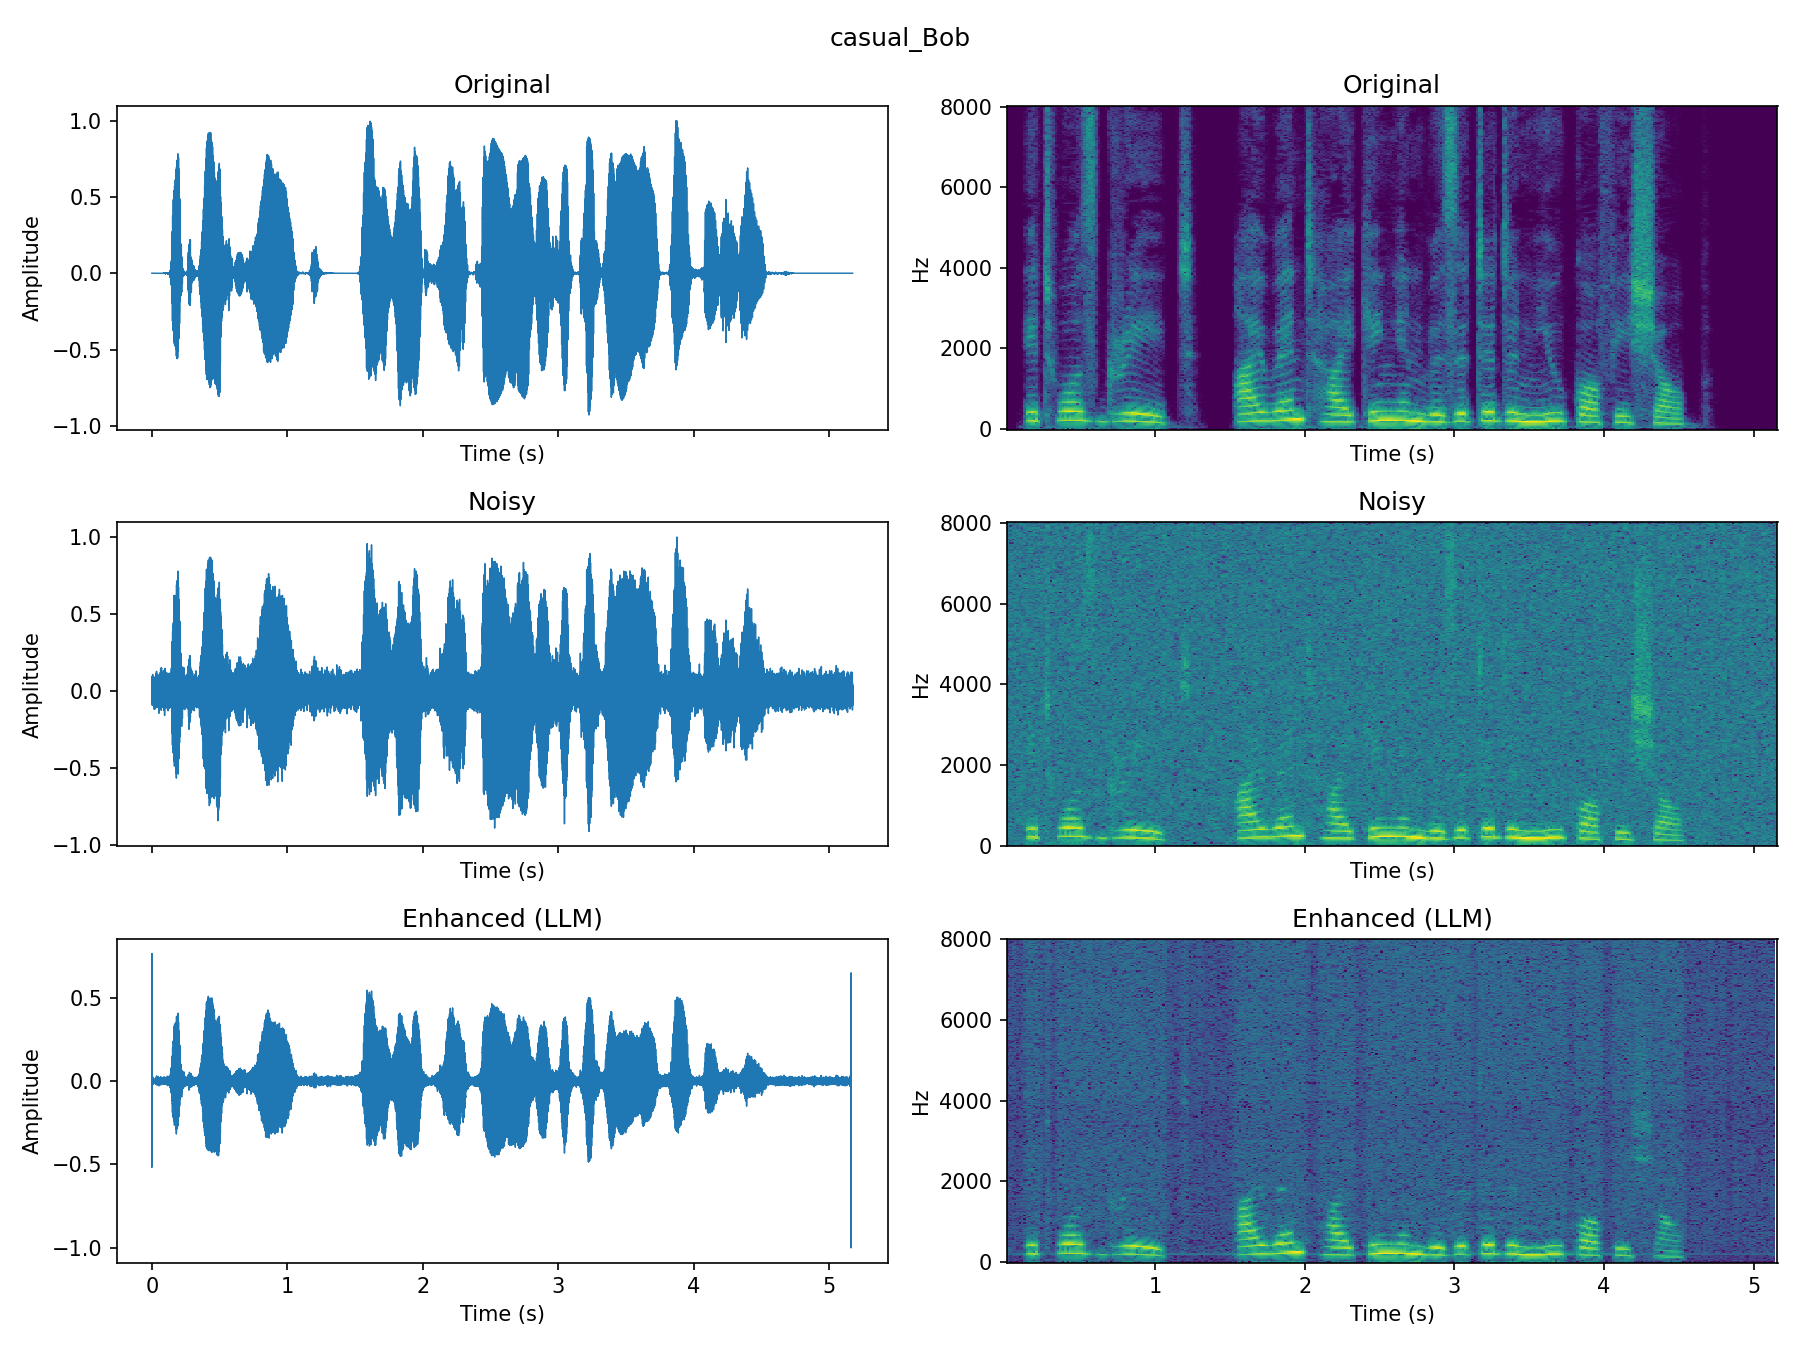
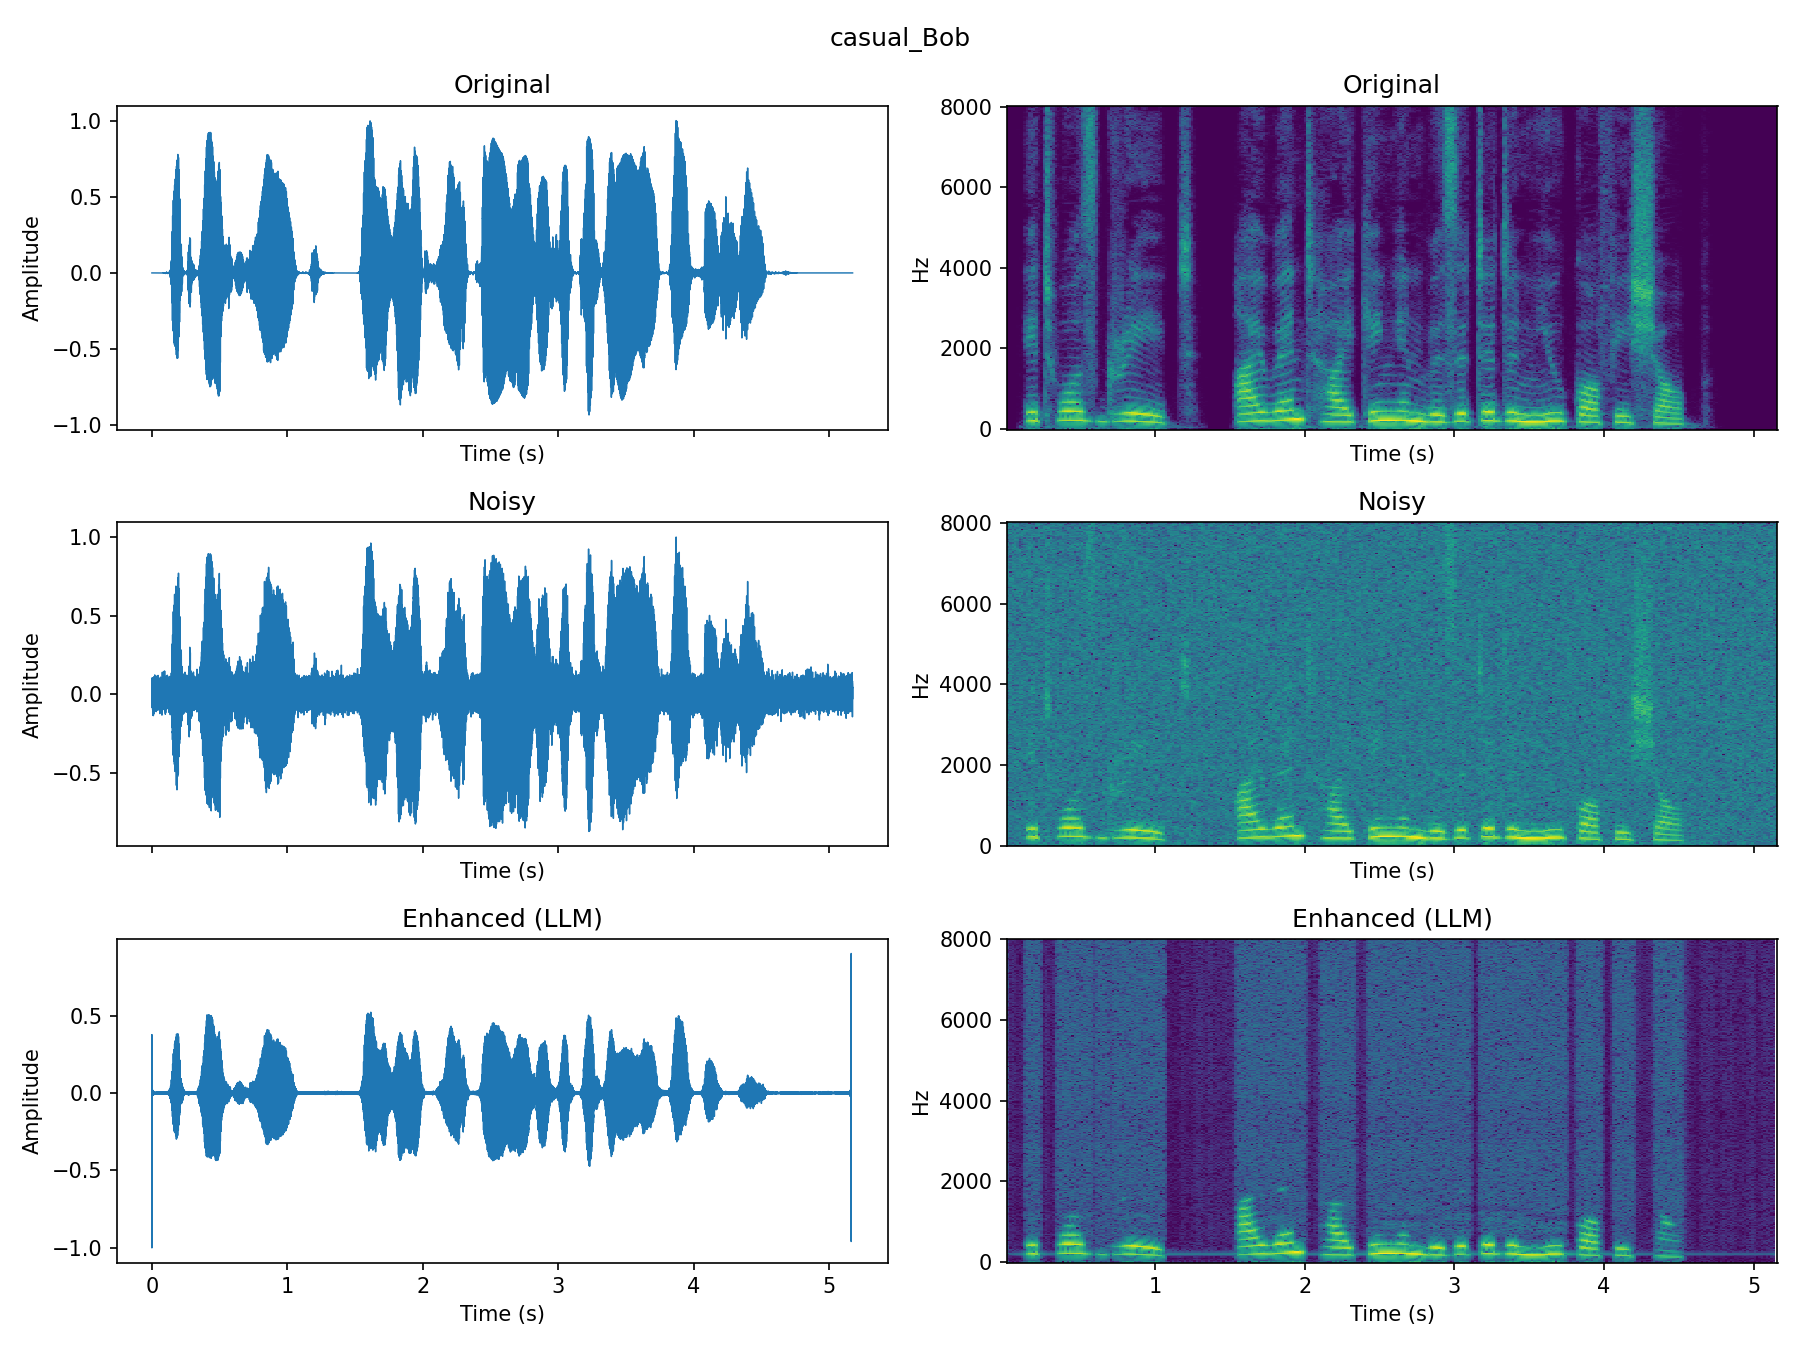
Update evaluation matrix and summary after running enhanced speech demo

diff --git a/output_enhanced_speech/evaluation_summary.md b/output_enhanced_speech/evaluation_summary.md
@@ -2,9 +2,9 @@
 
 | Scenario | Duration (s) | SNR Noisy (dB) | SNR Enhanced (dB) | SNR Improvement (dB) | STOI Noisy | STOI Enhanced | SI-SDR Enhanced (dB) |
 |---|---:|---:|---:|---:|---:|---:|---:|
-| voice_female | 4.28 | 11.91 | 4.57 | -7.34 | 0.896 | 0.808 | 11.49 |
-| emotion_neutral | 4.00 | 10.24 | 13.70 | 3.47 | 1.000 | 0.961 | 13.76 |
-| emotion_sad | 3.33 | 10.31 | 15.82 | 5.52 | 1.000 | 0.968 | 16.25 |
-| conference_Alice | 6.03 | 12.23 | 5.51 | -6.72 | 0.928 | 0.869 | 11.70 |
-| casual_Bob | 5.17 | 13.78 | 5.28 | -8.50 | 0.844 | 0.781 | 11.83 |
-| voice_male | 4.28 | 12.18 | 4.57 | -7.61 | 0.899 | 0.815 | 11.63 |
+| voice_female | 4.28 | 12.20 | 4.27 | -7.93 | 0.900 | 0.575 | 10.18 |
+| emotion_neutral | 4.00 | 10.03 | 12.87 | 2.84 | 1.000 | 0.904 | 12.78 |
+| emotion_sad | 3.33 | 9.96 | 15.33 | 5.36 | 1.000 | 0.883 | 15.29 |
+| conference_Alice | 6.03 | 12.27 | 5.39 | -6.88 | 0.926 | 0.737 | 10.66 |
+| casual_Bob | 5.17 | 13.98 | 5.16 | -8.82 | 0.848 | 0.686 | 11.68 |
+| voice_male | 4.28 | 12.22 | 4.27 | -7.95 | 0.896 | 0.564 | 10.17 |
